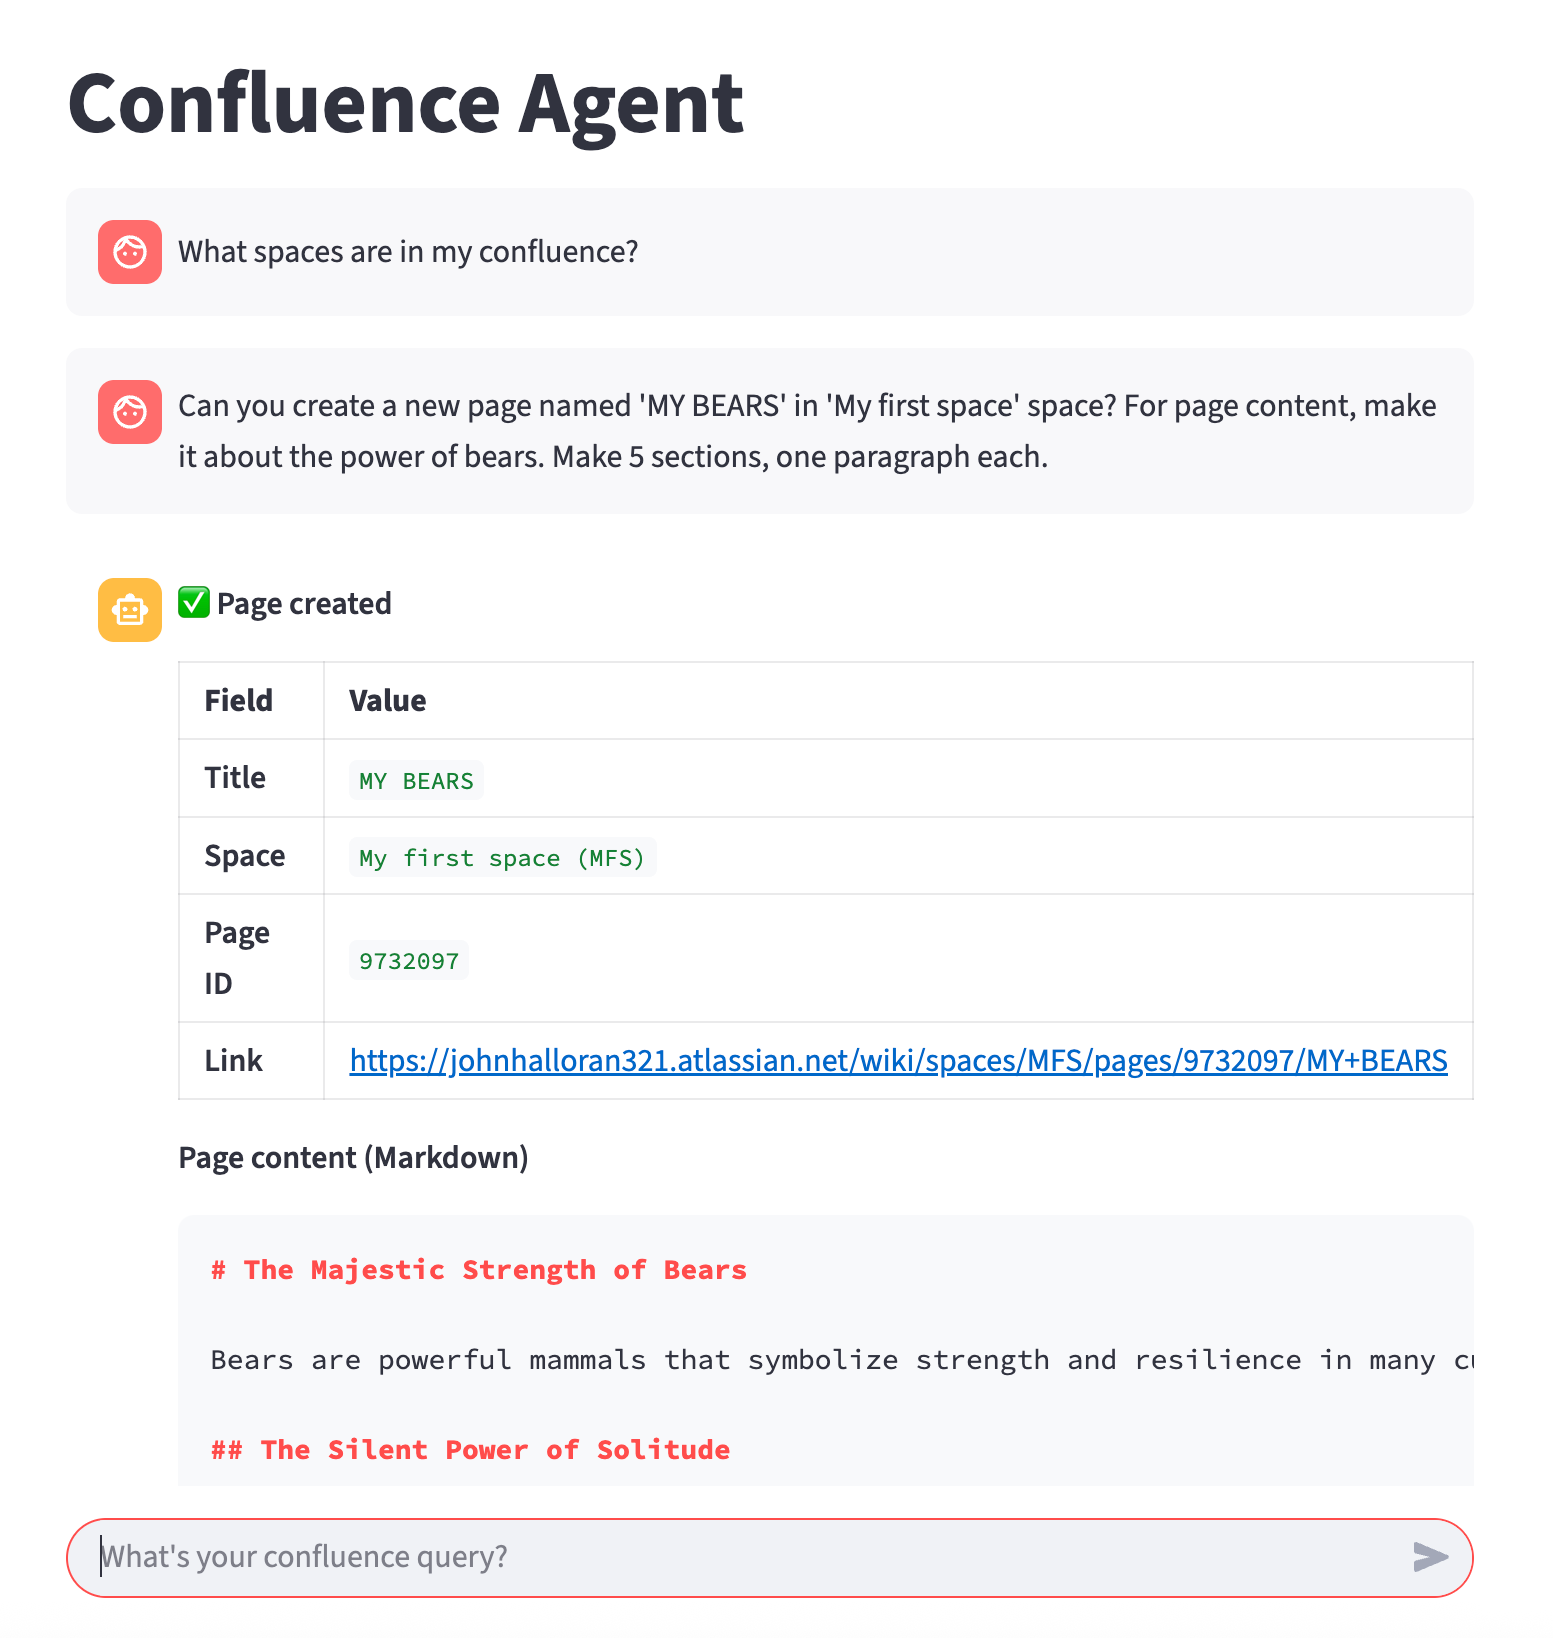
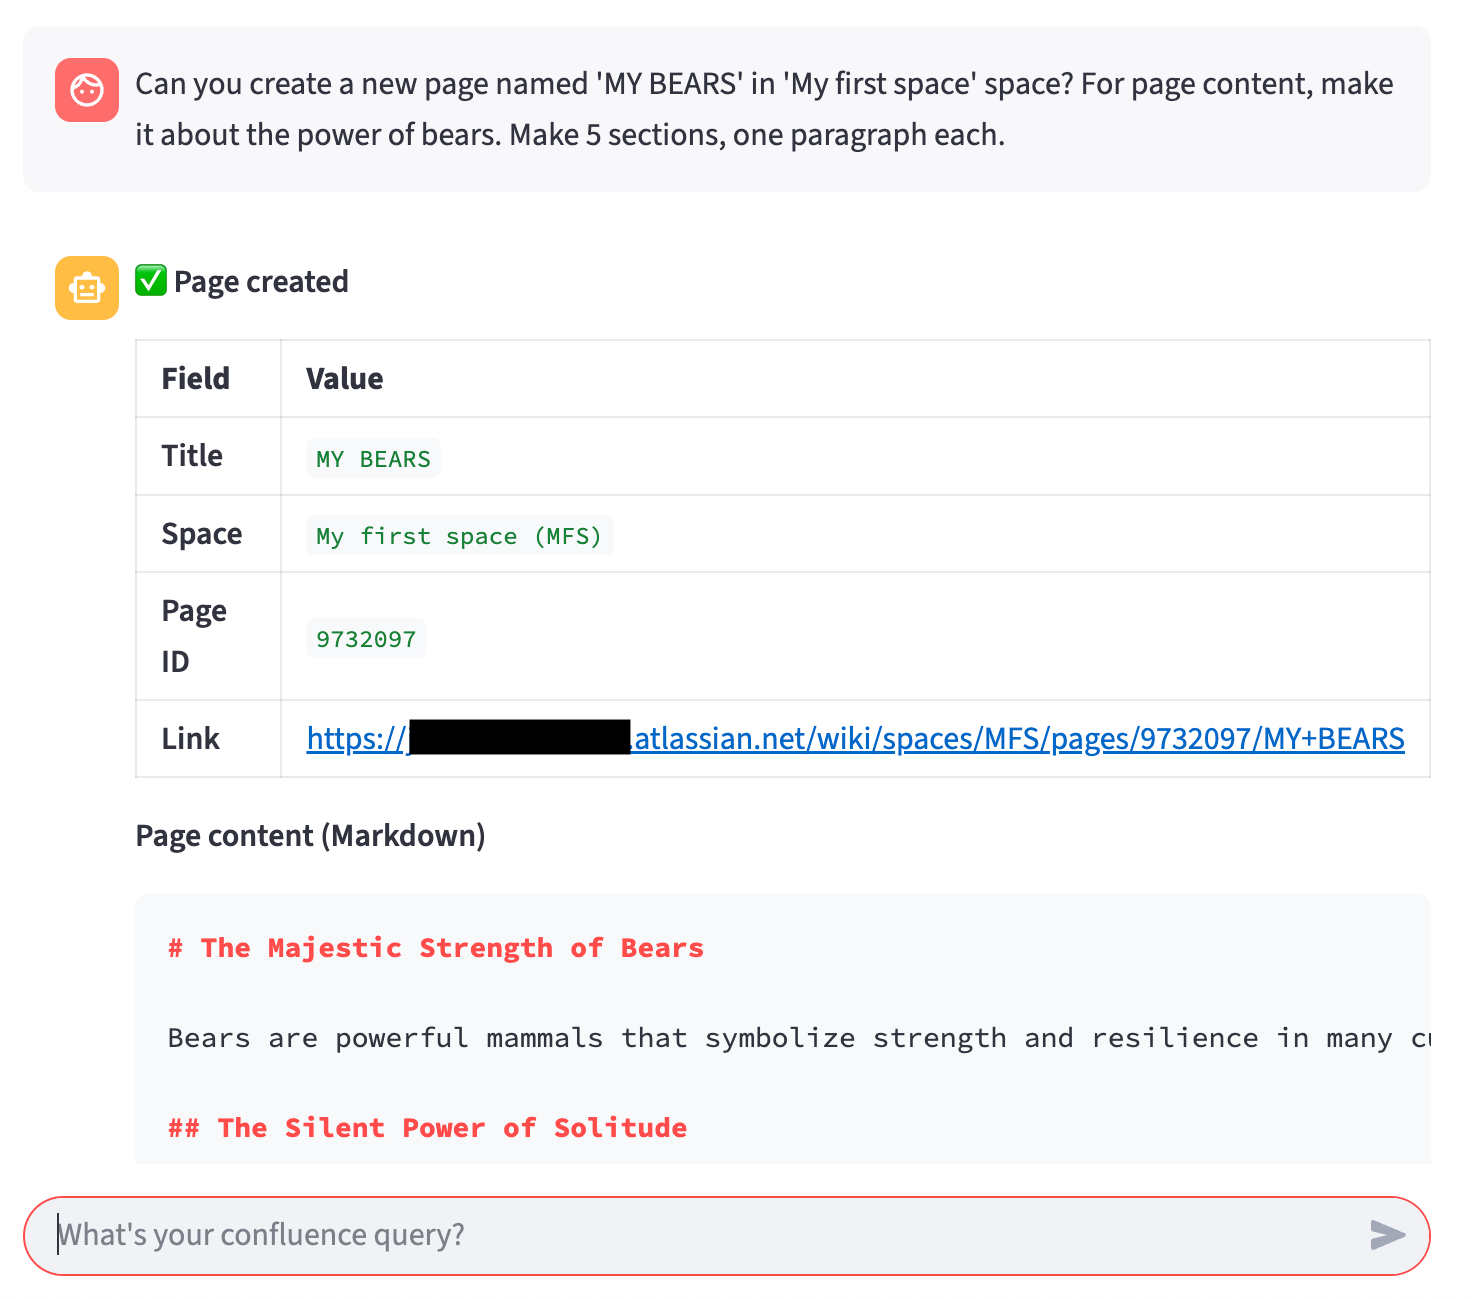
Updating readme and artifacts

diff --git a/README.md b/README.md
@@ -1,5 +1,5 @@
 # Atlassian Agent
-![Atlassian Agent](assets/agent.png "")
+![Atlassian Agent](assets/atlassianAgent.png "")
 
 ## About
 
@@ -12,6 +12,7 @@ A local (gpt-oss-20b) agentic solution providing full integration with the [offi
 
 ## Prereqs before use
 If gpt-oss-20b for ollama has not been downloaded, pull the model using
+
      ollama pull gpt-oss:20b
 
 If using `conda` and `npx` is not installed, run 
@@ -20,16 +21,22 @@ If using `conda` and `npx` is not installed, run
 
 ## Example use
 In a standalone terminal, run the following command and leave the terminal open:
+
     npx -y mcp-remote https://mcp.atlassian.com/v1/sse
 
 Start the ollama server in a separate terminal:
+
     ollama serve
 
 
 In a separate terminal, start the chat session by running:
    streamlit run atlassian_agent.py
 
+### Chat example
+An example request, with specific instructions about writing a Confluence page about bears:
 ![Example chat session](assets/bears_confluence_request.png)
+
+and the resulting confluence page:
 ![Example generated Confluence page](assets/bears_confluence.png)
 
 ## Troubleshooting
